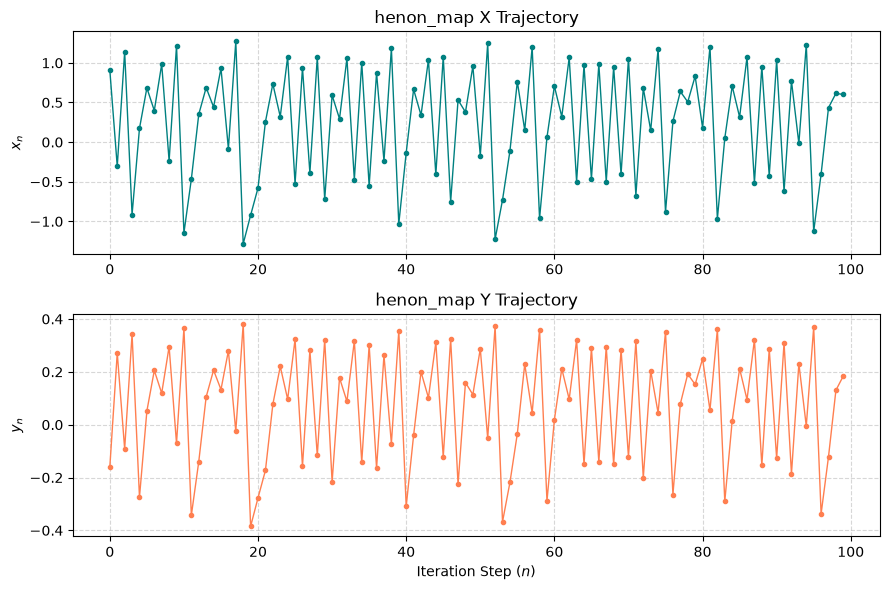
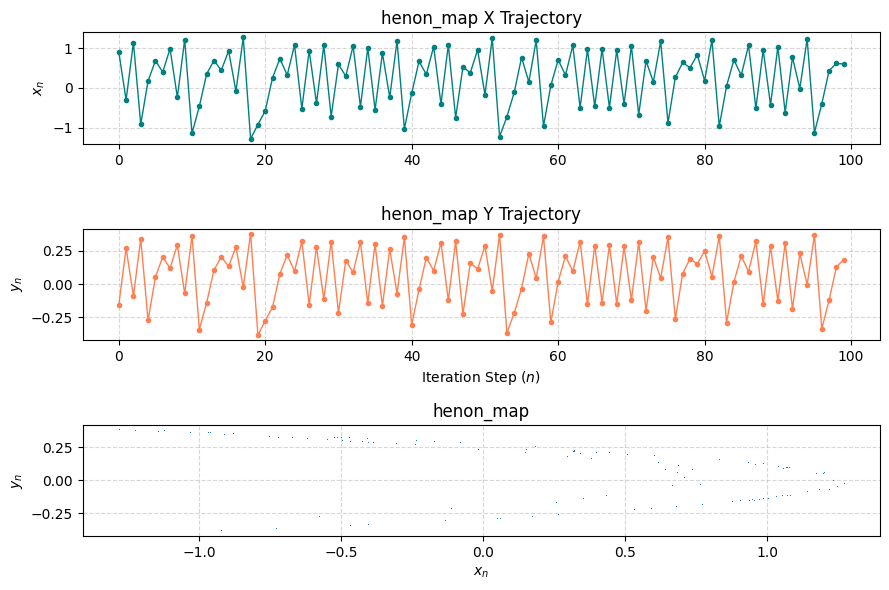
More Experiment

diff --git a/discrete_pinn/train_model.py b/discrete_pinn/train_model.py
@@ -6,8 +6,7 @@ from pathlib import Path
 from tqdm import tqdm
 import pandas as pd
 
-from model import PINN
-from physics_loss import LossCalc
+from model import PINN, LossCalc
 from logistic_map import LogisticMap
 
 
@@ -16,49 +15,30 @@ def evaluate(model, criterion, data):
     x_current, x_next = data
     model.eval()
     with torch.no_grad():
-        x_pred = model(x_current)
-        loss = criterion(x_current, x_pred, x_next, model.r)
-    return loss.item()
+        x_next_pred = model(x_current)
+        loss = criterion(x_next_pred, x_next)
+    return loss.item(), x_next_pred
 
 
-def plot_predictions(model, datasets, save_filename="output_dir/pinn_predictions.png"):
+def plot_predictions(pred_data,true_data, save_filename="output_dir/pinn_predictions.png"):
 
     if not (Path(save_filename)):
         print(f"Error: The path '{save_filename}' does not exist.")
         return
-        
 
-    """Plot observed and predicted transitions for all data splits."""
-    split_names = ("Train", "Test")
-    split_colors = ("tab:blue", "tab:orange", "tab:green")
-    split_predictions = []
+    # Convert PyTorch tensors to NumPy arrays for Matplotlib
+    pred_data = pred_data.detach().cpu().numpy()
+    true_data = true_data.detach().cpu().numpy()
 
-    model.eval()
-    with torch.no_grad():
-        for x_current, x_next in datasets:
-            split_predictions.append((
-                x_next.squeeze(1).cpu().numpy(),
-                model(x_current).squeeze(1).cpu().numpy(),
-            ))
-
-    plt.figure(figsize=(11, 5))
-    offset = 0
-    for split_name, split_color, (observed, predicted) in zip(split_names, split_colors, split_predictions):
-        steps = np.arange(offset, offset + len(observed))
-        plt.plot(steps, observed, color=split_color, label=f"{split_name} observed")
-        plt.plot(
-            steps,
-            predicted,
-            "--",
-            color="black",
-            alpha=0.8,
-            label=f"{split_name} predicted",
-        )
-        offset += len(observed)
-
-    plt.title(f"PINN Predictions Across Data Splits (r = {model.r.item():.4f})")
-    plt.xlabel("Transition index")
+    plt.figure(figsize=(10, 5))
+    plt.title("PINN Predictions - Test Phase")
+    plt.xlabel("Transition Index (Time Step)")
     plt.ylabel(r"$x_{n+1}$")
+    
+    # Plot actual test data vs predicted data
+    plt.plot(true_data, label="True Data", color="tab:blue", lw=2)
+    plt.plot(pred_data, '--', label="NN Prediction", color="tab:orange", lw=2)
+    
     plt.ylim(0, 1)
     plt.grid(True, linestyle="--", alpha=0.5)
     plt.legend(ncol=2)
@@ -67,20 +47,31 @@ def plot_predictions(model, datasets, save_filename="output_dir/pinn_predictions
     output_path = Path(save_filename)
     output_path.parent.mkdir(parents=True, exist_ok=True)
     plt.savefig(output_path, dpi=150)
+    
+    # Optional: Display the plot in the window before closing
+    plt.show() 
     plt.close()
+        
+
+
 
 
 def train():
     # Setup data
     logistic_map = LogisticMap(alpha=3.99)
-    x_trajectory = logistic_map.run_trajectory()
-    train_data, test_data = logistic_map.make_data_splits(x_trajectory)
-    x_curr, x_next = train_data
+    x_trajectory, timestep = logistic_map.run_trajectory("logistic_map")
+    train_data, test_data = logistic_map.make_data_splits( )
+
+    x_curr, x_next_true = train_data
+    x_curr_test, x_next_test = test_data
+    print(f"x_current shape: {x_curr.shape}")
+    print(f"x_next shape: {x_next_true.shape}")
+
 
     # Instantiate Model, Loss, and Optimizer
    
 
-    model = PINN(N_INPUT =1, N_HIDDEN= 8, N_OUTPUT=1, R_INIT = 1.99)
+    model = PINN(N_INPUT =1, N_HIDDEN= 8, N_OUTPUT=1, R_INIT=1.99)
     criterion = LossCalc()
     optimizer = optim.Adam(model.parameters(), lr=1e-2)
     
@@ -89,30 +80,31 @@ def train():
     
     for epoch in pbar:
         model.train()
-        optimizer.zero_grad()
         
         # Forward pass: predict x_{n+1} from x_n
         x_next_pred = model(x_curr)
         
         # Compute combined loss
-        total_loss = criterion(x_curr, x_next_pred, x_next, model.r)
+        total_loss = criterion( x_next_pred, x_next_true, model.r, x_curr)
         
         # Backpropagation
+        optimizer.zero_grad()
         total_loss.backward()
         optimizer.step()
         
         if epoch % 100 == 0:
             pbar.set_postfix({
                 "Loss": f"{total_loss.item():.5f}",
-                "Discovered r": f"{model.r.item():.4f}"
             })
 
         
 
-    test_loss = evaluate(model, criterion, test_data)
-    plot_predictions(model, (train_data,  test_data))
+    test_loss, x_next_pred = evaluate(model, criterion, test_data)
+    plot_predictions(x_next_pred,x_next_test)
     print(f"Test loss: {test_loss:.5f}")
     print(f"Discovered r: {model.r.item():.4f}")
+
+
     return model
 
 

diff --git a/discrete_pinn/model.py b/discrete_pinn/model.py
@@ -6,8 +6,20 @@ from tqdm import tqdm
 import matplotlib.pyplot as plt
 
 class PINN (nn.Module):
+    """
+    Parameter
+    ---------
+    N_INPUT : Number of input neuron
+    N_HIDDEN : Number of neuron in each layer
+    N_OUTPUT : Number of output neuron
 
-    def __init__(self, N_INPUT, N_HIDDEN, N_OUTPUT,R_INIT):
+    Output
+    ---------
+    Scalar value
+
+    """
+
+    def __init__(self, N_INPUT, N_HIDDEN, N_OUTPUT, R_INIT):
         super().__init__()
         
         self.net = nn.Sequential(
@@ -29,20 +41,20 @@ class LossCalc(nn.Module):
         super().__init__()
         self.mse = nn.MSELoss()
 
-    def forward(self, x_current_true: torch.Tensor, x_next_pred: torch.Tensor, x_next_true: torch.Tensor, r_param: torch.Tensor):
-        
+    def forward(self, x_next_pred: torch.Tensor, x_next_true: torch.Tensor, r_param: torch.Tensor = None, x_current: torch.Tensor = None):
+            
         # 1. Supervised Data Loss: Fit observed transitions
         data_loss = self.mse(x_next_pred, x_next_true)
         
         # 2. Discrete Physics Residual: Algebraic recurrence relation
         # Physcis loss takes x_next_pred and x_current_pred, it should uses prediction data entirely
-        # In loss calculation, 
+        if r_param is not None and x_current is not None:
+            physics_residual = x_next_pred - r_param * x_current * (1.0 - x_current)
+            physics_loss = torch.mean(physics_residual ** 2)
+            
+            return data_loss + physics_loss
 
-        physics_residual = x_next_pred - r_param * x_current_true* (1.0 - x_current_true)
-        physics_loss = torch.mean(physics_residual ** 2)
-        
-        total_loss = data_loss +  physics_loss
         
 
-        return total_loss
+        return data_loss
 

diff --git a/discrete_pinn/logistic_map.py b/discrete_pinn/logistic_map.py
@@ -37,7 +37,7 @@ class LogisticMap:
                 data.append(state_x)
 
             self.trajectory = np.array(data)
-            return self.trajectory 
+            return self.trajectory, np.arange(0,steady_step,1)
 
         if map_function == "henon_map":
 
@@ -58,7 +58,7 @@ class LogisticMap:
                 data.append([state_x,state_y])
 
             self.trajectory = np.array(data)
-            return self.trajectory 
+            return self.trajectory, steady_step
 
 
 
@@ -120,7 +120,7 @@ class LogisticMap:
             output_dir.mkdir(parents=True, exist_ok=True)
             save_filename = output_dir/f"{map_function}time_series.png"
 
-            fig,ax = plt.subplots(2,1, figsize=(9, 6))
+            fig,ax = plt.subplots(3,1, figsize=(9, 6))
 
             ax[0].plot(self.trajectory[:, 0],
                        "o-",markersize=3,
@@ -142,6 +142,13 @@ class LogisticMap:
             ax[1].set_ylabel(r"$y_n$")
             ax[1].grid(True, linestyle="--", alpha=0.5)
 
+            ax[2].plot(self.trajectory[:,0], self.trajectory[:,1], ",")
+            ax[2].set_title(f"{map_function}")
+            ax[2].set_ylabel(r"$y_n$")
+            ax[2].set_xlabel(r"$x_n$")
+            ax[2].grid(True, linestyle="--", alpha=0.5)
+
+
             plt.tight_layout()
             fig.savefig(save_filename, bbox_inches="tight")
             plt.close(fig)
@@ -158,7 +165,8 @@ class LogisticMap:
         x_next = torch.tensor(trajectory[1:], dtype=torch.float32).unsqueeze(1)
 
         n_samples = len(x_current)
-        print(f"Sample : {n_samples}")
+        print(f"X_(n) sample: {n_samples}")
+
         train_end = int(train_ratio * n_samples)
         print(f"Train End index : {train_end}")
 

diff --git a/discrete_pinn/main.py b/discrete_pinn/main.py
@@ -4,10 +4,12 @@ from train_model import train
 
 def main ():
 
-    lm = LogisticMap(alpha=3.99)  
-    lm.run_trajectory("henon_map") 
-    lm.plot_time_series("henon_map")
-    return 0
+    # lm = LogisticMap(alpha=3.99)
+    # run_trajectory = lm.run_trajectory("logistic_map")
+    # lm.plot_time_series("logistic_map")
+
+    train_model = train()
+
 
 
 
